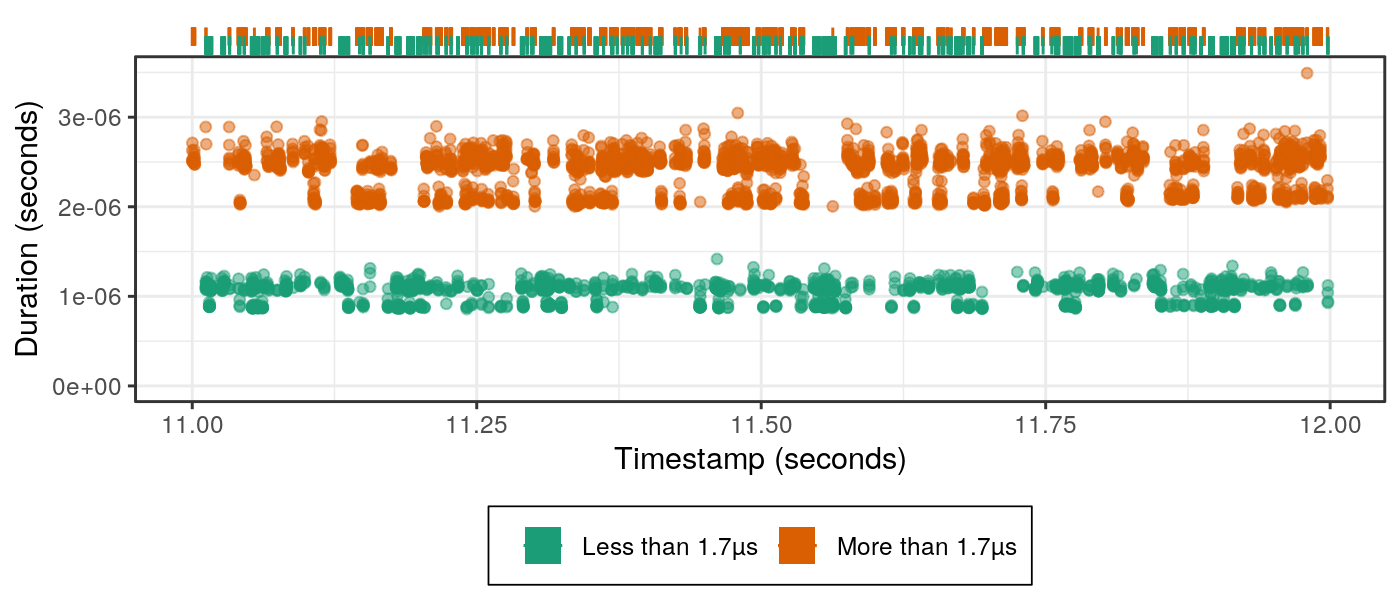
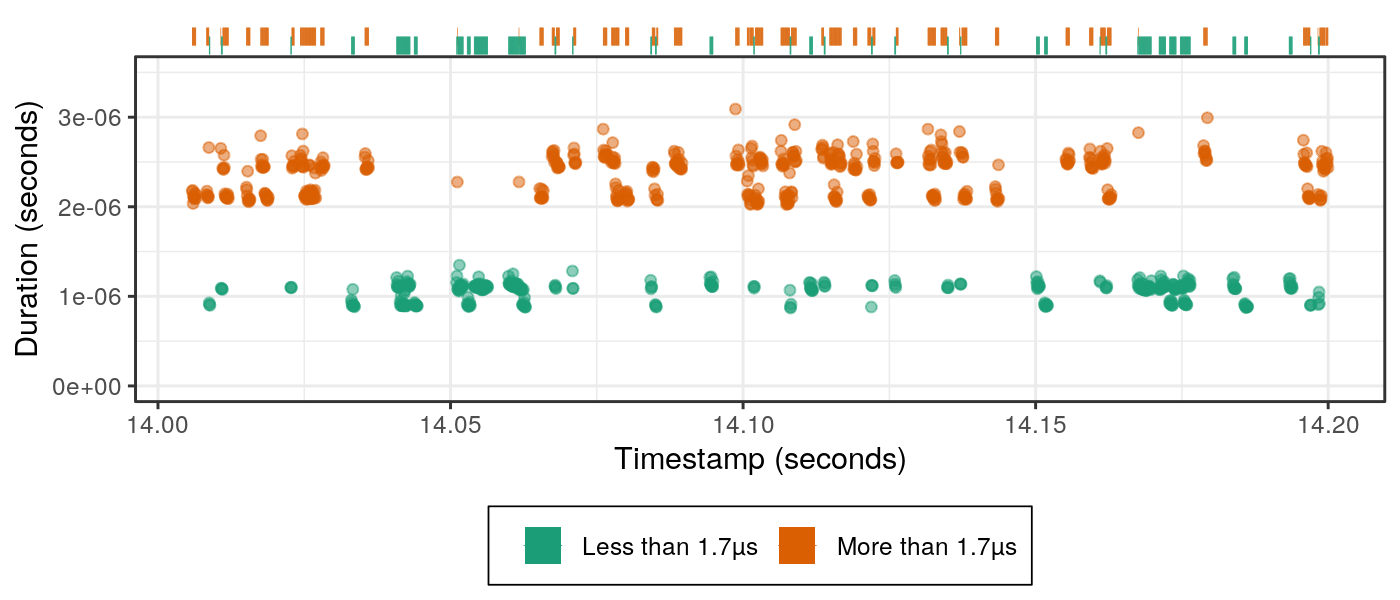
Re-work the order randomization section

diff --git a/chapter_experiment.tex b/chapter_experiment.tex
@@ -377,31 +377,81 @@
         plot), at least two modes are clearly present. This contradicts the conclusion of the central limit theorem,
         thereby proving that its hypotheses do not hold for this experiment. This is confirmed by
         Figure~\ref{fig:randomizing_order:distribution}, where we zoomed on a few distinct message sizes between
-        \NSI{900}{\byte} and \NSI{1000}{\byte}. Each point is the duration of an individual call to \recv,
+        \NSI{700}{\byte} and \NSI{800}{\byte}. Each point is the duration of an individual call to \recv,
         the crosses represent the average durations. In the shuffled experiment, on the right, the duration
         distributions are similar for all message sizes, with two modes clearly identifiable and the average in between.
-        In the non-shuffled case, on the left, the durations of two message sizes are different, namely \NSI{960}{\byte}
-        and \NSI{999}{\byte}. For these two calls, the distributions have only one mode, so their average durations are
-        significantly shifted. The assumption of identical distribution for these different message sizes is clearly not
-        satisfied here.
+        In the non-shuffled case, on the left, the durations of three message sizes are different, namely
+        \NSI{703}{\byte}, \NSI{767}{\byte} and \NSI{779}{\byte}. For these three calls, the distributions have only one
+        mode, so their average durations are significantly shifted. The assumption of identical distribution for these
+        different message sizes is clearly not satisfied here.
 
         \begin{figure}[htpb]
             \centering
             \includegraphics[width=0.8\linewidth]{img/experiment/randomizing_order/distribution.png}
-            \caption{The duration of \recv is not identically distributed in the non-shuffled case.
-            Durations truncated to \NSI{4}{\micro\second} for a better readability.}%
+            \caption{Distribution of the \recv durations for six different message sizes between \NSI{700}{\byte} and
+            \NSI{800}{\byte}.  The durations are not identically distributed in the non-shuffled case.  Durations
+            truncated to \NSI{4}{\micro\second} for a better readability.}%
             \label{fig:randomizing_order:distribution}
         \end{figure}
 
-        The root cause of this phenomenon is still unclear. Since shuffling correctly the experiments prevents the
-        occurence of this issue, a possible reason may be that the individual calls to \recv are not truly
-        independent. The sequence before the calls for the sizes like \NSI{960}{\byte} or \NSI{999}{\byte} would lead
-        to particularly good conditions and thus an excellent performance, which does not systematically happen in the
-        shuffled case because of the proper randomization.
+        Since shuffling correctly the experiments prevents the occurence of this issue, a possible reason could be that
+        the individual calls to \recv are not truly independent. The sequence before the calls for the sizes like
+        \NSI{703}{\byte}, \NSI{767}{\byte} or \NSI{779}{\byte} would lead to particularly good conditions and thus an
+        excellent performance, which does not systematically happen in the shuffled case because of the proper
+        randomization. However, we could not identify anything suspect regarding the message sizes of the calls made
+        just before these high-performance calls. Some of them had messages of a few bytes, some others had messages of
+        several hundreds kilobytes.
+
+        In Figure~\ref{fig:randomizing_order:evolution}, we present the temporal evolution of the durations for the
+        calls to \recv made with the sizes presented in Figure~\ref{fig:randomizing_order:distribution}. In the
+        non-shuffled case, we can identify a temporal pattern. During the first 20 seconds of the experiment, the
+        calls with sizes \NSI{705}{\byte}, \NSI{741}{\byte} and \NSI{782}{\byte} (in green) have durations above
+        \NSI{2}{\micro\second} for a large fraction of them, only a small part have durations below
+        \NSI{1.5}{\micro\second}. After the 20 second timestamp, this suddenly changes, there are at least two time
+        windows where all these calls have a low duration. Even outside these time windows, a much larger fraction of
+        these calls have low durations. This temporal pattern is not visible in the other cases.
+
+        \begin{figure}[htpb]
+            \centering
+            \includegraphics[width=0.8\linewidth]{img/experiment/randomizing_order/evolution.png}
+            \caption{Temporal evolution of the \recv durations for six different message sizes between \NSI{700}{\byte}
+            and \NSI{800}{\byte}. A temporal pattern can be observed. Durations truncated to \NSI{4}{\micro\second} for
+            a better readability.}%
+            \label{fig:randomizing_order:evolution}
+        \end{figure}
+
+        Another view of the non-shuffled experiment is presented in Figure~\ref{fig:randomizing_order:evolution_rug}.
+        Now all the calls with a size lower than \NSI{1}{\kilo\byte} are shown, but only a small fraction of the whole
+        experiment is displayed. The calls to \recv can be divided into two groups depending on their durations, lower
+        (in green) or greater (in orange) than \NSI{1.7}{\micro\second}. The rug plot on the top of the figure
+        highlights the position in time of each of these \recv calls. Although there are slow and fast calls uniformly
+        distributed during this time window, there appears to be some clusters where nearly all the calls are of the
+        same kind.
+
+        \begin{figure}[htpb]
+            \centering
+            \includegraphics[width=0.8\linewidth]{img/experiment/randomizing_order/evolution_rug.png}
+            \caption{Temporal evolution of the \recv durations for all the sizes between \NSI{1}{\byte} and
+            \NSI{1}{\kilo\byte} during a \NSI{0.2}{\second} time window of the non-shuffled experiment. Another temporal
+            pattern can be observed.  Durations truncated to \NSI{4}{\micro\second} for a better readability.}%
+            \label{fig:randomizing_order:evolution_rug}
+        \end{figure}
+
+        A possible explanation for such a temporal pattern could be an external perturbation that happens at a regular
+        interval. Since we are measuring very small durations, the culprit would be a short but frequent noise (\eg a
+        system daemon). This is very well explained by Petrini~\etal\cite{Petrini_2003}:
+        \begin{quote}
+            Substantial performance loss occurs when an application resonates with system noise: high-frequency,
+            fine-grained noise affects only fine-grained applications; low-frequency, coarse-grained noise affects only
+            coarse-grained applications.
+        \end{quote}
+
+        A similar temporal pattern can be observed in the shuffled experiment. However, since the order of the sizes is
+        completely random, it affects them all equally.
 
         Later on, we went a step further in improving the methodology of this experiment by also randomizing the outer
         loop, \ie the measures are now shuffled, there are \emph{pingpong} measures between \emph{isend} and \emph{recv}
-        measures and vice-versa. This change however did not bring any noticeable effect on our observations.
+        measures and vice-versa. This change did not bring any noticeable effect on our observations.
 
         The experiments described in this section were performed in 2018. Two years later, we were unable to replicate
         this phenomenon, despite using the same MPI implementation and an identical cluster: the averaged data has a
